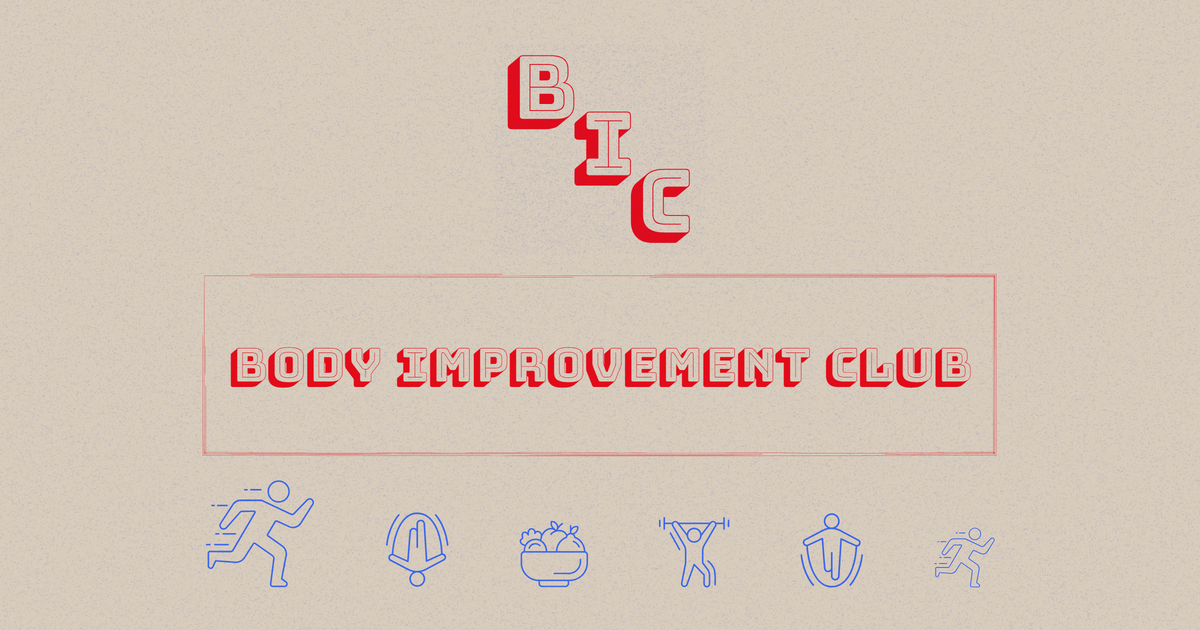
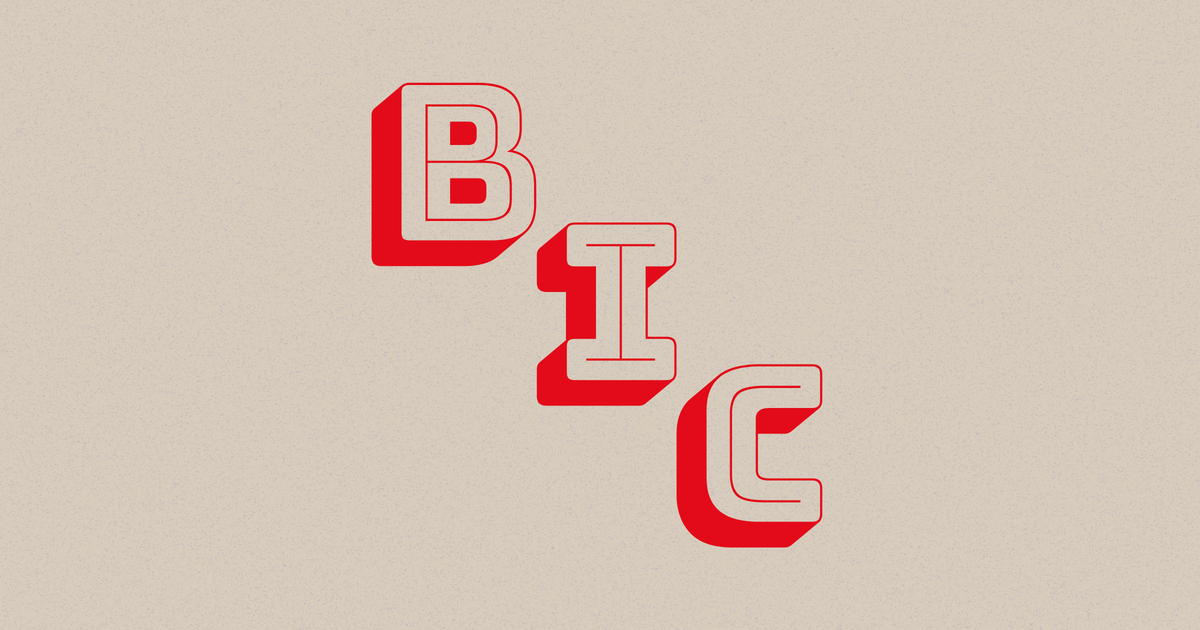
Make the link preview card just the diagonal BIC mark
The previous card was a landscape re-cut of the whole poster -- mark, brushed
title box, icon strip. At the size a preview is actually shown, only the mark
stayed readable, so the rest was noise. The card is now the squared mark alone;
its letters already step down to the right, so the diagonal is the composition.

Adds assets/logo-squared-plain.svg because neither logo-squared twin could be
used at this size: both bake a 20% film-grain layer across their own 248x248
box, invisible at 210px on the old card but at 520px it prints the mark's
square onto the flat ground as a lighter patch. The plain mark is the same
three letterforms with that layer dropped -- which also sheds the 2.4MB
embedded grain PNG, at 7.7KB -- so the grain here is the page's single
full-bleed layer, as on the site.

og.html is rewritten as the source for the new card. The og: URLs and
dimensions are unchanged; only og:image:alt is rewritten to match. The
platforms cache a scrape hard, so the new card needs a re-scrape in each
debugger to show.

diff --git a/og.html b/og.html
@@ -7,12 +7,18 @@
 <!-- =========================================================================
      SOURCE for assets/og-image.png — the link preview served by the og:image
      tag in index.html. Not linked from the site; it exists so the card can be
-     re-rendered when the poster changes.
+     re-rendered if the mark or the ground ever changes.
 
-     The poster itself cannot be the card: its content is 795x712, nearly
-     square, and og:image wants 1.91:1 (1200x630). So this is a landscape
-     re-cut of the same parts — same ground, grain, logo, brushed title box
-     and icon collage — rather than a crop.
+     The card is the squared BIC mark and nothing else. Its letters already
+     step down to the right, so the diagonal is the whole composition — no
+     title box, no icon strip, no wordmark. At the size a link preview is
+     actually shown, that is the only part that stays readable anyway.
+
+     Uses logo-squared-plain.svg, not either of the logo-squared twins: both
+     of those bake film grain across their own 248x248 box, which prints the
+     mark's square onto the ground as a lighter patch. The plain mark is the
+     same three letterforms with that layer dropped, so the grain here is the
+     page's single full-bleed layer, as on the site.
 
      Regenerate (Chrome headless, 2x for antialiasing, downscaled to 1200x630):
 
@@ -24,92 +30,33 @@
                   i.resize((1200,630), Image.LANCZOS).save('assets/og-image.png')"
      ===================================================================== -->
 
-<link rel="preconnect" href="https://fonts.googleapis.com">
-<link rel="preconnect" href="https://fonts.gstatic.com" crossorigin>
-<link rel="stylesheet"
-      href="https://fonts.googleapis.com/css2?family=Bungee+Shade&display=swap">
 <style>
-  *, *::before, *::after { box-sizing: border-box; }
-
   html, body { margin: 0; width: 1200px; height: 630px; overflow: hidden; }
 
   body {
     background: #d8ccbc;                       /* --ground */
     display: flex;
-    flex-direction: column;
     align-items: center;
+    justify-content: center;
     position: relative;
   }
 
-  /* Same 20% film grain the page carries. */
+  /* Same 20% film grain the page carries, full bleed. */
   .grain {
     position: absolute; inset: 0;
     width: 100%; height: 100%;
     object-fit: cover;
     opacity: 0.20;
-    pointer-events: none;
   }
 
-  /* The squared mark, not the wordmark: the wordmark repeats the title box
-     below it, and this leaves the type to be said once.
-
-     The -transparent twin, not logo-squared.svg itself — that one carries an
-     opaque #D8CCBC backing rect, which is invisible on flat ground but here
-     punches a flat 248px square out of the film grain. Same mark either way. */
-  .logo { margin-top: 44px; width: 210px; height: 210px; display: block; }
-
-  /* The desktop title box, at its export size: a 791x178 frame whose brush
-     stroke overflows 2px on every side, so the export is 795x182. */
-  .title {
-    position: relative;
-    margin-top: 22px;
-    width: 791px; height: 178px;
-    display: flex; align-items: center; justify-content: center;
-  }
-  .title::before {
-    content: "";
-    position: absolute; left: -2px; top: -2px;
-    width: 795px; height: 182px;
-    background: url("assets/borders/border-title-d.svg") no-repeat 0 0 / 795px 182px;
-  }
-  .title h1 {
-    margin: 0;
-    font-family: "Bungee Shade", cursive;
-    font-weight: 400;
-    font-size: 46px;
-    line-height: normal;
-    color: #e30b19;                            /* --red */
-    white-space: nowrap;
-  }
-
-  /* Icon collage, read off the desktop exercises strip. */
-  /* Poster sizes at 1:1; the 70.6px gap is what spreads the six icons to
-     exactly 791px, so the row sits flush with the title box above it. */
-  .icons {
-    margin-top: 26px;
-    display: flex; align-items: flex-end; gap: 70.6px;
-  }
-  .icons img { width: var(--w); height: var(--h); }
-  .icons img { display: block; }
-  .flip { transform: scaleY(-1); }
+  .logo { position: relative; width: 520px; height: 520px; display: block; }
 </style>
 </head>
 <body>
 
 <img class="grain" src="assets/film-grain.webp" alt="">
 
-<img class="logo" src="assets/logo-squared-transparent.svg" alt="Body Improvement Club">
-
-<div class="title"><h1>body improvement club</h1></div>
-
-<div class="icons">
-  <img src="assets/runner-large.svg" style="--w:111px;    --h:107.419px" alt="">
-  <img src="assets/jump-rope.svg"    style="--w:62.376px; --h:75px"      alt="" class="flip">
-  <img src="assets/diet-bowl.svg"    style="--w:69px;     --h:66.95px"   alt="">
-  <img src="assets/weightlifter.svg" style="--w:71px;     --h:70.298px"  alt="">
-  <img src="assets/jump-rope.svg"    style="--w:62.376px; --h:75px"      alt="">
-  <img src="assets/runner-small.svg" style="--w:62px;     --h:60px"      alt="">
-</div>
+<img class="logo" src="assets/logo-squared-plain.svg" alt="Body Improvement Club">
 
 </body>
 </html>

diff --git a/index.html b/index.html
@@ -23,7 +23,7 @@
 <meta property="og:image:type" content="image/png">
 <meta property="og:image:width" content="1200">
 <meta property="og:image:height" content="630">
-<meta property="og:image:alt" content="The BIC monogram above a brush-stroked box reading &quot;body improvement club&quot;, over a row of running, skipping, diet and weightlifting icons.">
+<meta property="og:image:alt" content="The BIC monogram: three red letters stepping diagonally down to the right on a grainy sand ground.">
 <meta name="twitter:card" content="summary_large_image">
 
 <link rel="icon" href="assets/favicon.svg" type="image/svg+xml">
